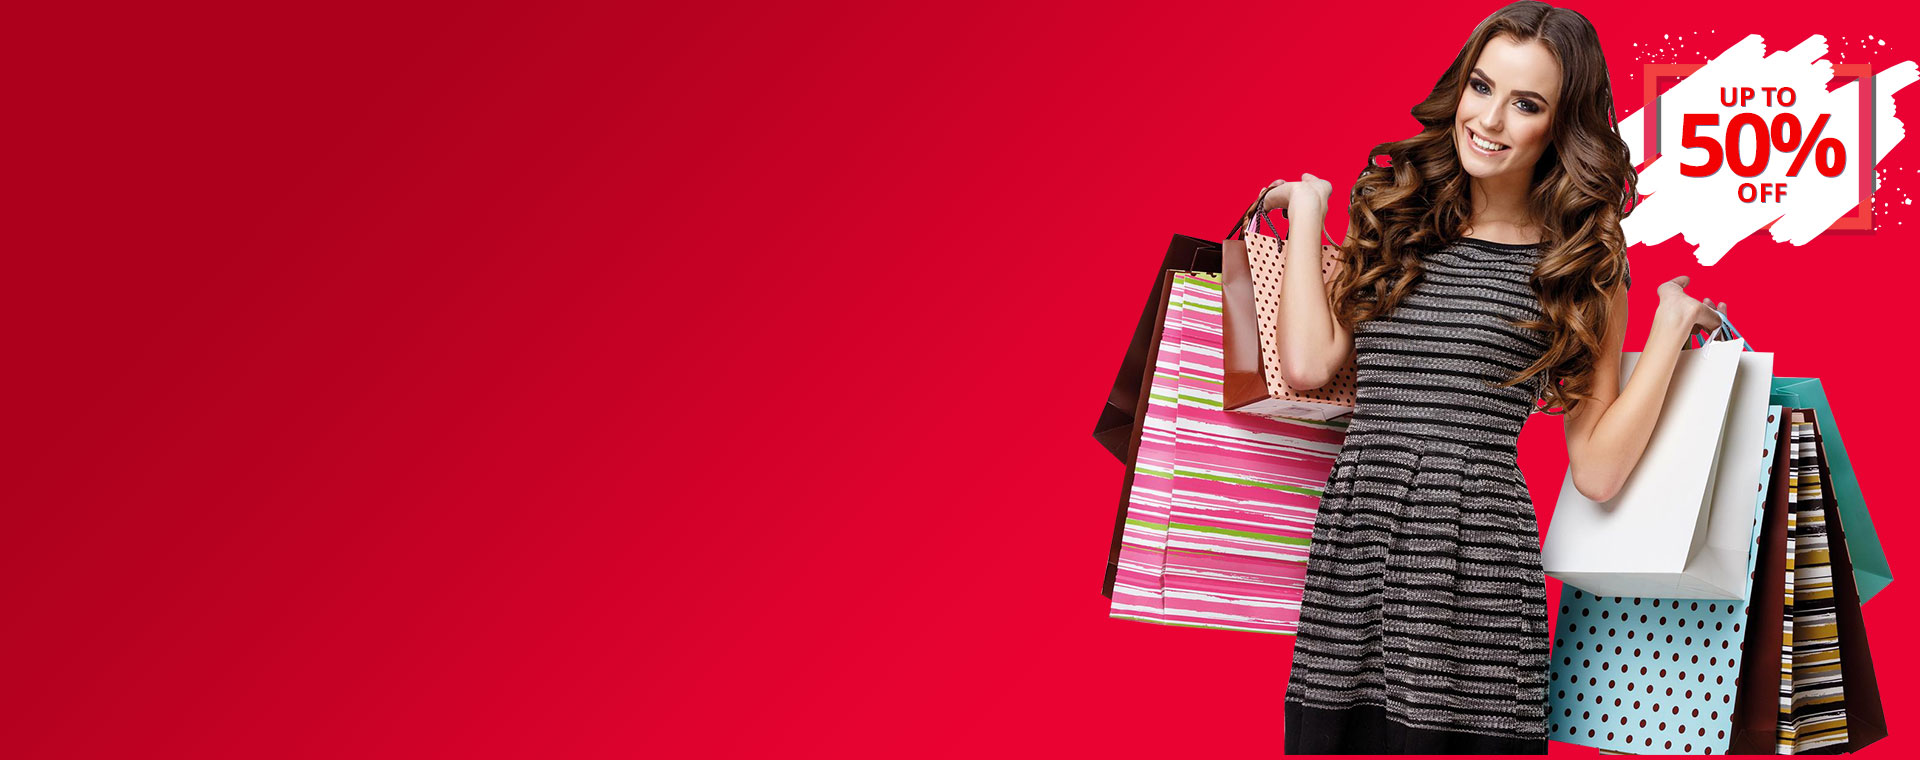
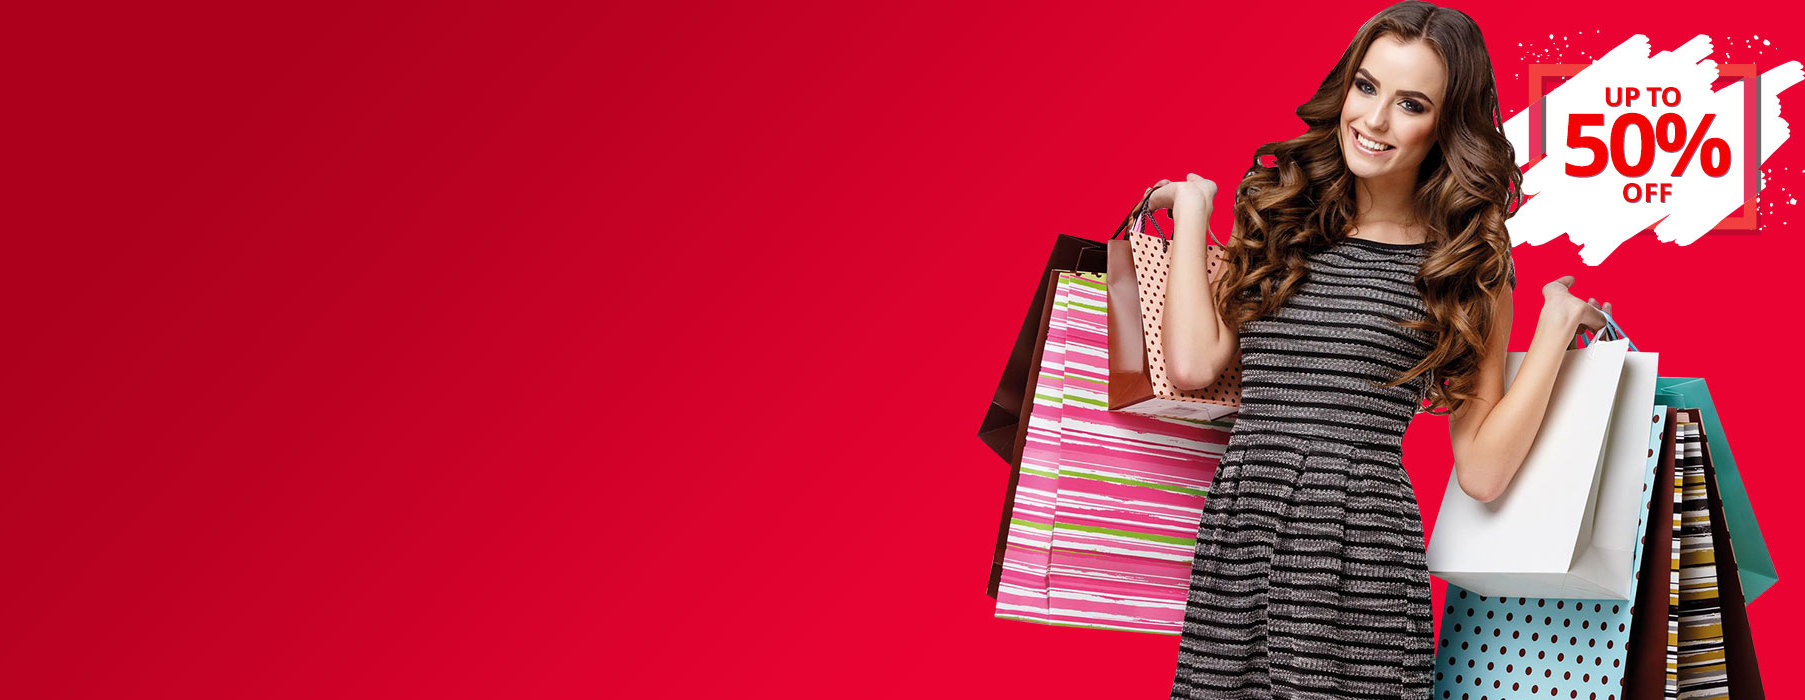
Adjust shop homepage. Added image for mobile.

Changed region(s): [[0.5274, 0.0, 1.0, 1.0]]

diff --git a/resources/views/shop/index.blade.php b/resources/views/shop/index.blade.php
@@ -4,7 +4,7 @@
 
 
 
-	{{-- <!-- Banner Area Start -->
+{{-- <!-- Banner Area Start -->
   <section id="slideshow" class="hero-area">
       <div class="slick">
         <div class="hero-area-slider">
@@ -13,133 +13,179 @@
           <div class="intro-carousel">
             @foreach($data as $pic)
               <div class="intro-content" style="background-image: url({{asset('/images/'.$pic->photo)}})">
-               
-            
-          </div>
-              @endforeach
-        </div>  
-      </div>   
-  </section> --}}
 
-   
-<section id="slideshow" >
-  
-  
+
+</div>
+@endforeach
+</div>
+</div>
+</section> --}}
+
+
+<section id="slideshow" class="hidden-sm">
   <div class="slick ">
-
- <div ><img class="image-slideshow" src="{{asset('/images/promopage1.jpg')}}" alt=""></div>
- <div ><img class="image-slideshow" src="{{asset('/images/promopage2.jpg')}}" alt=""></div>
- <div ><img class="image-slideshow" src="{{asset('/images/promopage3.jpg')}}" alt=""></div>
-    
+    <div>
+      <img class="image-slideshow" src="{{asset('/images/promopage1.jpg')}}" alt="">
+    </div>
+    <div>
+      <img class="image-slideshow" src="{{asset('/images/promopage2.jpg')}}" alt="">
+    </div>
+    <div>
+      <img class="image-slideshow" src="{{asset('/images/promopage3.jpg')}}" alt="">
+    </div>
   </div>
-
 </section>
 
+<section id="slideshow" class="hidden-md">
+  <div class="slick ">
+    <div>
+      <img class="image-slideshow" src="{{asset('/images/promopage1-mobile.jpg')}}" alt="">
+    </div>
+    <div>
+      <img class="image-slideshow" src="{{asset('/images/promopage2-mobile.jpg')}}" alt="">
+    </div>
+    <div>
+      <img class="image-slideshow" src="{{asset('/images/promopage3-mobile.jpg')}}" alt="">
+    </div>
+  </div>
+</section>
 
+<div class="container">
+  <div class="row">
+    <div class="col-12">
+      <h1 style="color: #ffcc00;">Popular Categories</h1>
+      <div style="border-top: 1px solid #ffcc00; margin-bottom: 20px;" class="w-50-md w-100-sm">
+      </div>
+    </div>
+    <div class="col-6 col-md-2 text-alignment">
+      <a style="color:#ffcc00;" href="#"><img class="icon-image" src="{{asset('/images/1.png')}}" alt="Icon">
+        <h5>Bedsheet</h5>
+      </a>
 
+    </div>
+    <div class="col-6 col-md-2 text-alignment">
+      <a style=" color:#ffcc00;" href="#"><img class="icon-image" src="{{asset('/images/2.png')}}" alt="Icon">
+        <h5>Curtain</h5>
+      </a>
 
-  <div class="container">
- <div class="row">
-   
- <div class="col-6 col-md-2 text-alignment">
- <a style="color:#ffcc00;" href="#"><img class="icon-image" src="{{asset('/images/1.png')}}" alt="Icon"> <h5>Bedsheet</h5></a>
+    </div>
 
- </div>
- <div class="col-6 col-md-2 text-alignment">
-  <a style=" color:#ffcc00;"  href="#"><img class="icon-image" src="{{asset('/images/2.png')}}" alt="Icon"> <h5>Curtain</h5></a>
-  
-  </div>
+    <div class="col-6 col-md-2 text-alignment">
+      <a style=" color:#ffcc00;" href="#"><img class="icon-image" src="{{asset('/images/3.png')}}" alt="Icon">
+        <h5>Cabinet</h5>
+      </a>
 
-  <div class="col-6 col-md-2 text-alignment">
-    <a style=" color:#ffcc00;"  href="#"><img class="icon-image" src="{{asset('/images/3.png')}}" alt="Icon"><h5>Cabinet</h5></a>
-   
-  </div>
-  <div class="col-6 col-md-2 text-alignment">
-    <a style=" color:#ffcc00;"  href="#"><img class="icon-image" src="{{asset('/images/3.png')}}" alt="Icon"><h5>Wallpaper</h5></a>
-   
-  </div>
-  <div class="col-6 col-md-2 text-alignment">
-    <a style=" color:#ffcc00;"  href="#"><img class="icon-image" src="{{asset('/images/3.png')}}" alt="Icon"><h5>Carpet</h5></a>
-   
-  </div>
-  <div class="col-6 col-md-2 text-alignment">
-    <a style=" color:#ffcc00;"  href="#"><img class="icon-image" src="{{asset('/images/3.png')}}" alt="Icon"><h5>Paint</h5></a>
-   
-  </div>
-  <div class="col-6 col-md-2 text-alignment">
-    <a style=" color:#ffcc00;"  href="#"><img class="icon-image" src="{{asset('/images/3.png')}}" alt="Icon"><h5>Furniture</h5></a>
-   
-  </div>
-  <div class="col-6 col-md-2 text-alignment">
-    <a style=" color:#ffcc00;"  href="#"><img class="icon-image" src="{{asset('/images/3.png')}}" alt="Icon"><h5>Wiring</h5></a>
-   
+    </div>
+    <div class="col-6 col-md-2 text-alignment">
+      <a style=" color:#ffcc00;" href="#"><img class="icon-image" src="{{asset('/images/3.png')}}" alt="Icon">
+        <h5>Wallpaper</h5>
+      </a>
+
+    </div>
+    <div class="col-6 col-md-2 text-alignment">
+      <a style=" color:#ffcc00;" href="#"><img class="icon-image" src="{{asset('/images/3.png')}}" alt="Icon">
+        <h5>Carpet</h5>
+      </a>
+
+    </div>
+    <div class="col-6 col-md-2 text-alignment">
+      <a style=" color:#ffcc00;" href="#"><img class="icon-image" src="{{asset('/images/3.png')}}" alt="Icon">
+        <h5>Paint</h5>
+      </a>
+
+    </div>
+
+    <!-- <div class="col-6 col-md-2 text-alignment">
+      <a style=" color:#ffcc00;" href="#"><img class="icon-image" src="{{asset('/images/3.png')}}" alt="Icon">
+        <h5>Furniture</h5>
+      </a>
+
+    </div>
+    <div class="col-6 col-md-2 text-alignment">
+      <a style=" color:#ffcc00;" href="#"><img class="icon-image" src="{{asset('/images/3.png')}}" alt="Icon">
+        <h5>Wiring</h5>
+      </a>
+
+    </div> -->
+
   </div>
 
 </div>
 
- </div>
+<br>
 
- <br>
-
-  <!-- Hero Area End -->
+<!-- Hero Area End -->
 
 @endsection
 
 @push('style')
 <style>
+  .text-alignment {
+    text-align: center;
 
-.text-alignment{
-text-align: center;
-
-}
-
-.icon-image{
-
-  height: 15vh;
-  width: 15vh;
-}
-
-
-
-
-.image-slideshow{
-  background-size: cover;
-  background-repeat: no-repeat;
-  background-position: center;
-
-  height: 60%;
-    width: 100%;
-
-  
   }
 
-  .promo-page-background-color{
+  .icon-image {
+
+    height: 15vh;
+    width: 15vh;
+  }
+
+
+
+
+  .image-slideshow {
+    width: 100%;
+    height: auto;
+  }
+
+  .promo-page-background-color {
     background-color: black;
   }
 
 
 
-  
+
 
   @media(max-width:767px) {
 
 
 
-    .image-slideshow{
-  background-size: cover;
-  background-repeat: no-repeat;
-  background-position: center;
+    .image-slideshow {
+      background-size: cover;
+      background-repeat: no-repeat;
+      background-position: center;
 
-    height: 100%;
-    width: 100%;
-  
+      height: 100%;
+      width: 100%;
 
-  
+
+
+    }
+
+
+
+
   }
 
- 
+  @media (max-width: 767px) {
+    .hidden-sm {
+      display: none;
+    }
 
+    .w-100-sm {
+      width: 100%;
+    }
+  }
 
+  @media (min-width: 768px) {
+    .hidden-md {
+      display: none;
+    }
+
+    .w-50-md {
+      width: 50%;
+    }
   }
 </style>
 @endpush
@@ -148,19 +194,16 @@ text-align: center;
 
 @push('script')
 <script>
-
-$(document).ready(() => {
-  $('#slideshow .slick').slick({
-    autoplay: true,
-    fade: true,
-    autoplaySpeed: 2000,
-    speed: 1000,
-    dots: true,
-    prevArrow: false,
-    nextArrow: false
- 
-    
+  $(document).ready(() => {
+    $('#slideshow .slick').slick({
+      autoplay: true,
+      fade: false,
+      autoplaySpeed: 2000,
+      speed: 1000,
+      dots: true,
+      prevArrow: false,
+      nextArrow: false
+    });
   });
-});
 </script>
 @endpush
